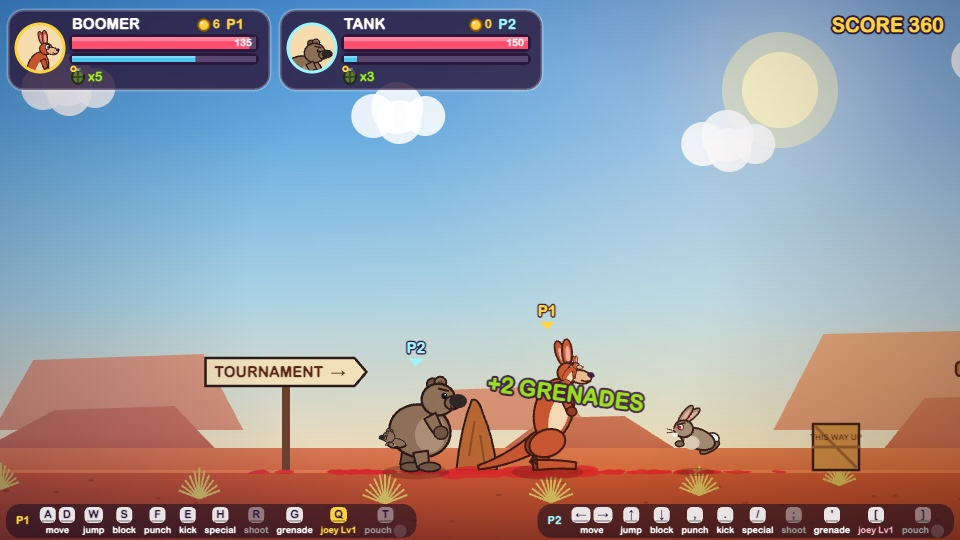
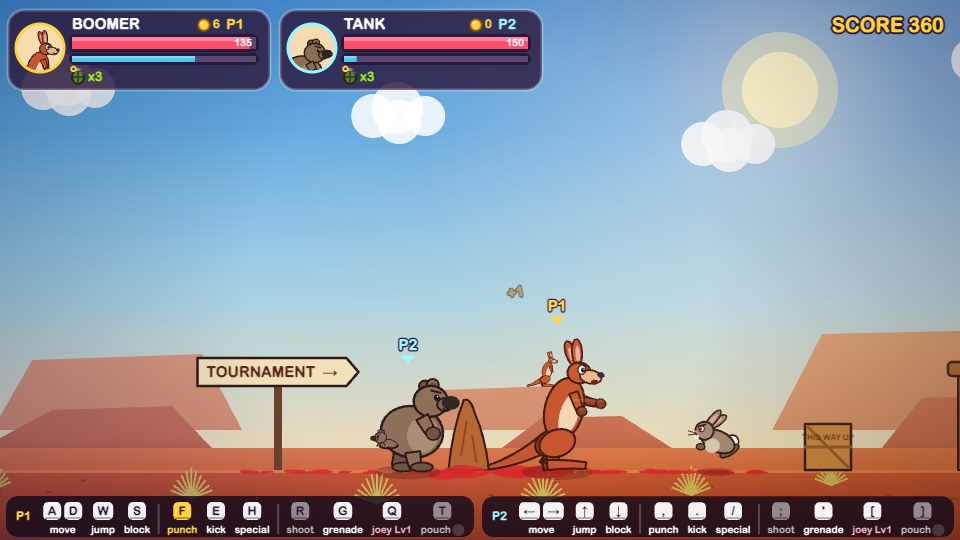
Every key's job clearly labelled at the bottom on a computer
The owner asked that on PC all controls are clearly labelled at the
bottom of the screen during play:
- The key strip is now a solid band along the bottom with bigger keys
  and what each one does written underneath, in groups: move, jump,
  block | punch, kick, special | shoot, grenade, joey, pouch | pause.
  Two players get a labelled strip each, side by side.
- It shrinks to fit if long key names are chosen in Settings.
- On a computer it can't be switched off: Pause > On-screen controls
  swaps it for the clickable buttons, and Settings says ALWAYS ON.
  Phones and tablets keep their switch.
- Tests for the labels, the fit in every layout and the always-on rule;
  README screenshots refreshed.

Changed region(s): [[0.0, 0.5333, 1.0, 1.0], [0.4062, 0.6222, 0.4688, 0.6815], [0.9688, 0.6519, 1.0, 0.7111]]

diff --git a/js/scenes/ui.js b/js/scenes/ui.js
@@ -109,12 +109,15 @@
       return String(str).replace(/\{(\w+)\}/g, (m, a) => UI.keyName(a) || m);
     },
 
-    // Key-hint strip along the bottom edge. Lights up the move the player is doing, and shows the joey's
-    // level (with a bar while it rests) and the pouch's saved item, so every control sits at the bottom.
+    // Key-hint strip along the bottom edge: every control during play, each key with what it does written
+    // underneath, in three groups (moving | fighting | gear) and pause. Lights up the move the player is doing,
+    // dims what can't be used right now (no ammo, no grenades, empty pouch, joey resting), and shows the
+    // joey's level (with a bar while it rests) and the pouch's saved item.
     //  opts.layout: 'wasd' | 'arrows' | 'pad' (solo, follows the keys in use) or 'p1' | 'p2' (duel)
     //  opts.x + opts.align ('left'|'right') to place it; centered otherwise
-    //  opts.compact: for two strips side by side: each label sits under its key, no pause key
+    //  opts.compact: for two strips side by side (each fits half the screen), no pause key
     //  opts.tag / opts.tagColor: e.g. 'P1' in the player's color
+    // Returns where it went: { x, w, k } (left edge, width on screen, scale used to make it fit).
     keyStrip(ctx, player, t, opts = {}) {
       // keyboard layouts follow the keys chosen in Settings (MG.Keys)
       const K = (p, a) => MG.Keys.label(p, a);
@@ -133,7 +136,7 @@
       const joeyLv = player.joey ? player.joey.level : player.joeyLevel || 0;
       const joeyRest = player.joey ? MG.U.clamp(player.joey.cool / 8, 0, 1) : player.joeyCool || 0;
       const SHOW = { attack: 'punch', big: 'kick', joey: joeyLv ? 'joey Lv' + joeyLv : 'joey' };
-      const POUCH_SLOT = compact ? 15 : 19; // room for the saved item's icon after "pouch"
+      const GROUP = { attack: 1, shoot: 1, pause: 1 }; // a divider before each: moving | fighting | gear | pause
       let items = LAYOUTS[opts.layout || MG.Input.lastDevice] || LAYOUTS.wasd;
       if (compact) items = items.filter(([, label]) => label !== 'pause');
       const kind = player.move ? player.move.kind : null;
@@ -145,72 +148,91 @@
         joey: !!player.joeyOut,
         block: player.state === 'block', jump: !player.onGround && player.state !== 'ko',
       };
-      const fs = compact ? 11 : 12, lfs = compact ? 9 : 12;
-      const font = `bold ${fs}px ${FONT}`, lfont = `bold ${lfs}px ${FONT}`;
+      const kfs = compact ? 12 : 15, lfs = compact ? 10 : 13;   // key letters, labels underneath
+      const capH = compact ? 18 : 24, gap = compact ? 9 : 14, sep = compact ? 8 : 12;
+      const slotW = compact ? 13 : 17;                          // room for the pouch's item after "pouch"
+      const kfont = `bold ${kfs}px ${FONT}`, lfont = `bold ${lfs}px ${FONT}`;
       const textW = (str, f) => { ctx.font = f; return ctx.measureText(str).width; };
-      const capW = (k) => Math.max(compact ? 16 : 20, textW(k, font) + (compact ? 8 : 10));
-      const capH = compact ? 16 : 20;
-      const gap = compact ? 8 : 10;
-      // each item: its key caps, then the label beside them (or under them when compact)
+      const capW = (k) => Math.max(capH, textW(k, kfont) + (compact ? 9 : 12));
       const sizes = items.map(([keys, label]) => {
         const kw = keys.reduce((a, k) => a + capW(k) + 3, 0) - 3;
-        const lw = textW(SHOW[label] || label, lfont) + (label === 'pouch' ? POUCH_SLOT : 0);
-        return { kw, w: compact ? Math.max(kw, lw) : kw + 5 + lw };
+        const lw = textW(SHOW[label] || label, lfont) + (label === 'pouch' ? slotW : 0);
+        return { kw, lw, w: Math.max(kw, lw) };
       });
-      const tagW = opts.tag ? textW(opts.tag, font) + 10 : 0;
-      const total = tagW + sizes.reduce((a, m) => a + m.w, 0) + gap * (items.length - 1);
-      const h = compact ? 34 : 28;
-      const y = MG.H - (compact ? 19 : 20);
-      let x = opts.x === undefined ? (MG.W - total) / 2 : opts.align === 'right' ? opts.x - total : opts.x;
-      ctx.fillStyle = 'rgba(20,10,30,0.55)';
-      ctx.beginPath();
-      ctx.roundRect(x - 10, y - h / 2, total + 20, h, 14);
-      ctx.fill();
+      const tagW = opts.tag ? textW(opts.tag, kfont) + 12 : 0;
+      const dividers = items.filter(([, label], i) => i > 0 && GROUP[label]).length;
+      const total = tagW + sizes.reduce((a, m) => a + m.w, 0) + gap * (items.length - 1) + sep * dividers;
+      // never wider than its room (a long key name chosen in Settings would otherwise run off the edge)
+      const room = compact ? MG.W / 2 - 28 : MG.W - 28;
+      const k = Math.min(1, room / total);
+      const H = MG.H, bandH = compact ? 44 : 52;
+      const capY = H - (compact ? 29 : 35), labY = H - (compact ? 10 : 12);
+      let x = opts.x === undefined ? (MG.W - total * k) / 2 : opts.align === 'right' ? opts.x - total * k : opts.x;
+      const where = { x: x - 10 * k, w: (total + 20) * k, k };
+      ctx.save();
+      if (!compact) {
+        // one player: a dark band along the whole bottom edge
+        ctx.fillStyle = 'rgba(16,8,26,0.8)';
+        ctx.fillRect(0, H - bandH, MG.W, bandH);
+        ctx.fillStyle = 'rgba(255,255,255,0.16)';
+        ctx.fillRect(0, H - bandH, MG.W, 2);
+      }
+      ctx.translate(x, H); ctx.scale(k, k); ctx.translate(-x, -H);
+      if (compact) {
+        ctx.fillStyle = 'rgba(16,8,26,0.8)';
+        ctx.beginPath(); ctx.roundRect(x - 10, H - bandH, total + 20, bandH - 3, 12); ctx.fill();
+      }
       if (opts.tag) {
-        UI.text(ctx, opts.tag, x, y, fs, opts.tagColor || '#ffd23f');
+        UI.text(ctx, opts.tag, x, H - bandH / 2 - 1, kfs, opts.tagColor || '#ffd23f');
         x += tagW;
       }
       items.forEach(([keys, label], i) => {
+        if (i > 0 && GROUP[label]) {
+          ctx.fillStyle = 'rgba(255,255,255,0.22)';
+          ctx.fillRect(x - gap / 2 + sep / 2 - 1, H - bandH + 8, 2, bandH - 14);
+          x += sep;
+        }
         const m = sizes[i];
         const ready = label === 'special' && player.canSpecial;
         const empty = (label === 'shoot' && !(player.ammo > 0)) || (label === 'grenade' && !(player.grenades > 0))
           || (label === 'pouch' && !player.pouch) || (label === 'joey' && player.joeyReady === false);
         const on = active[label];
         const glow = ready && Math.floor(t * 4) % 2 === 0;
-        const ky = compact ? y - 6 : y;
-        let kx = compact ? x + (m.w - m.kw) / 2 : x;
-        for (const k of keys) {
-          const w = capW(k);
-          ctx.fillStyle = on ? '#ffd23f' : glow ? '#00f5d4' : empty ? 'rgba(255,255,255,0.4)' : 'rgba(255,255,255,0.88)';
+        let kx = x + (m.w - m.kw) / 2;
+        for (const key of keys) {
+          const w = capW(key);
+          ctx.fillStyle = on ? '#ffd23f' : glow ? '#00f5d4' : empty ? 'rgba(255,255,255,0.5)' : 'rgba(255,255,255,0.95)';
           ctx.beginPath();
-          ctx.roundRect(kx, ky - capH / 2, w, capH, 5);
+          ctx.roundRect(kx, capY - capH / 2, w, capH, 5);
           ctx.fill();
-          ctx.fillStyle = 'rgba(0,0,0,0.25)';
-          ctx.fillRect(kx + 2, ky + capH / 2 - 3, w - 4, 2);
-          UI.text(ctx, k, kx + w / 2, ky, fs, '#2b193d', 'center');
+          ctx.fillStyle = 'rgba(0,0,0,0.28)';
+          ctx.fillRect(kx + 2, capY + capH / 2 - 3, w - 4, 2);
+          UI.text(ctx, key, kx + w / 2, capY + 0.5, kfs, '#2b193d', 'center');
           kx += w + 3;
         }
         // the joey resting: a pink bar fills along the bottom of its key
         if (label === 'joey' && player.joeyReady === false && joeyRest > 0) {
-          const w = capW(keys[0]), k0 = compact ? x + (m.w - m.kw) / 2 : x;
+          const w = capW(keys[0]), k0 = x + (m.w - m.kw) / 2;
           ctx.fillStyle = '#f6b3c4';
-          ctx.fillRect(k0 + 2, ky + capH / 2 - 3, (w - 4) * (1 - joeyRest), 2);
+          ctx.fillRect(k0 + 2, capY + capH / 2 - 3, (w - 4) * (1 - joeyRest), 2);
         }
-        const color = on ? '#ffd23f' : ready ? '#00f5d4' : empty ? '#999999' : label === 'joey' && player.joeyReady !== false && joeyLv ? '#f6b3c4' : '#ffffff';
+        const color = on ? '#ffd23f' : ready ? '#00f5d4' : empty ? '#b8b8b8' : label === 'joey' && player.joeyReady !== false && joeyLv ? '#f6b3c4' : '#ffffff';
         const text = SHOW[label] || label;
-        const slot = label === 'pouch' ? POUCH_SLOT : 0;
-        let lx;
-        if (compact) { lx = x + (m.w - slot) / 2; UI.text(ctx, text, lx, y + 10, lfs, color, 'center'); lx += textW(text, lfont) / 2; }
-        else { UI.text(ctx, text, kx + 2, y, fs, color); lx = kx + 2 + textW(text, font); }
+        const slot = label === 'pouch' ? slotW : 0;
+        const tw = textW(text, lfont);
+        const lx = x + (m.w - (tw + slot)) / 2;
+        UI.text(ctx, text, lx + tw / 2, labY, lfs, color, 'center');
         if (slot) {
           // the pouch's saved item (or an empty slot)
-          const cx = lx + slot / 2 + 1, cy = compact ? y + 10 : y, r = compact ? 5.5 : 7;
-          ctx.fillStyle = 'rgba(255,255,255,0.14)';
-          ctx.beginPath(); ctx.arc(cx, cy, r + 1, 0, Math.PI * 2); ctx.fill();
-          if (player.pouch) UI.pouchItem(ctx, player.pouch, cx, cy, r);
+          const cx = lx + tw + slot / 2 + 1, r = compact ? 5 : 6.5;
+          ctx.fillStyle = 'rgba(255,255,255,0.16)';
+          ctx.beginPath(); ctx.arc(cx, labY, r + 1, 0, Math.PI * 2); ctx.fill();
+          if (player.pouch) UI.pouchItem(ctx, player.pouch, cx, labY, r);
         }
         x += m.w + gap;
       });
+      ctx.restore();
+      return where;
     },
 
     // The pouch's saved item as a small icon (HUDs): a heart, or a power-up's colour and symbol.

diff --git a/tools/tests/test_campaign.js b/tools/tests/test_campaign.js
@@ -167,6 +167,53 @@ sc.showStrip = false;
 panelT = texts(function (c) { MG.CampaignHUD.draw(c, sc.hudModel()); });
 check(!sc.hudModel().players[0].below && panelT.some(function (w) { return /^JOEY Lv/.test(w); }) && panelT.indexOf('POUCH') >= 0, '...but keeps them when the on-screen controls are off');
 sc.showStrip = true;
+
+// ---- on a computer every key's job is labelled at the bottom during play (the owner, 15 Nov 2026)
+function measured() {
+  var labels = [];
+  var ctx = new Proxy({}, {
+    get: function (t, k) {
+      if (k in t) return t[k];
+      if (k === 'measureText') return function (str) { var m = /(\d+)px/.exec(t.font || '') || [0, 12]; return { width: String(str).length * +m[1] * 0.62 }; };
+      if (k === 'createLinearGradient' || k === 'createRadialGradient') return function () { return { addColorStop: noop }; };
+      if (k === 'fillText') return function (str) { labels.push(String(str)); };
+      return noop;
+    },
+    set: function (t, k, v) { t[k] = v; return true; },
+  });
+  return { ctx: ctx, labels: labels };
+}
+var allJobs = ['move', 'jump', 'block', 'punch', 'kick', 'special', 'shoot', 'grenade', 'joey Lv' + sc.player.joey.level, 'pouch', 'pause'];
+var stripsOk = ['wasd', 'arrows', 'pad'].every(function (lay) {
+  var r = measured(), where = MG.UI.keyStrip(r.ctx, sc.player, 1, { layout: lay });
+  return where.x >= 0 && where.x + where.w <= 960 && allJobs.every(function (j) { return r.labels.indexOf(j) >= 0; });
+});
+check(stripsOk, 'the key strip labels every job (move, jump, block, punch, kick, special, shoot, grenade, joey, pouch, pause) and fits the screen, for keys, arrow keys and a gamepad');
+var r1 = measured(), r2 = measured();
+var left = MG.UI.keyStrip(r1.ctx, sc.player, 1, { layout: 'p1', compact: true, x: 16, align: 'left', tag: 'P1' });
+var right = MG.UI.keyStrip(r2.ctx, sc.player, 1, { layout: 'p2', compact: true, x: 944, align: 'right', tag: 'P2' });
+check(left.x >= 0 && left.x + left.w < right.x && right.x + right.w <= 960 && allJobs.slice(0, 10).every(function (j) { return r1.labels.indexOf(j) >= 0 && r2.labels.indexOf(j) >= 0; }),
+  'two players: two labelled strips side by side, not overlapping');
+['up', 'attack', 'big', 'special', 'shoot', 'grenade'].forEach(function (a, i) { MG.Keys.set('P1', a, ['NumpadMultiply', 'NumpadSubtract', 'NumpadDecimal', 'NumpadDivide', 'NumpadEnter', 'NumpadAdd'][i]); });
+var rl = measured(), long = MG.UI.keyStrip(rl.ctx, sc.player, 1, { layout: 'wasd' });
+MG.Keys.reset();
+check(long.k < 1 && long.x >= 0 && long.x + long.w <= 960.5, 'long key names chosen in Settings: the strip shrinks to fit instead of running off the screen');
+// it can't be switched off on a computer (phones and tablets keep their switch)
+var wasTouch = MG.Touch.isTouchDevice;
+MG.Touch.isTouchDevice = false; MG.Save.set('keyStrip', false);
+var pcScene = fresh();
+check(MG.stripOn() && pcScene.showStrip && pcScene.hudModel().strips.length === 1, 'on a computer the key hints are always on (even if they were switched off before)');
+MG.cycleOnscreen(pcScene); var l1 = MG.onscreenLabel(pcScene), strips1 = pcScene.hudModel().strips.length;
+MG.cycleOnscreen(pcScene); var l2 = MG.onscreenLabel(pcScene), strips2 = pcScene.hudModel().strips.length;
+check(/BUTTONS/.test(l1) && /KEY HINTS/.test(l2) && strips2 === 1 && !MG.Touch.enabled, 'Pause > On-screen controls switches between key hints and buttons, never to nothing');
+var setScene = new MG.SettingsScene({});
+var hintRow = setScene.items.find(function (it) { return /^Key hints/.test(typeof it.label === 'function' ? it.label() : it.label); });
+hintRow.change(1);
+check(/ALWAYS ON/.test(hintRow.label()) && MG.stripOn(), 'Settings: "Key hints at the bottom: ALWAYS ON" on a computer');
+MG.Touch.isTouchDevice = true;
+check(!MG.stripOn(), '...while a phone or tablet can still switch them off');
+MG.Touch.isTouchDevice = wasTouch; MG.Touch.enabled = false; MG.Save.set('keyStrip', true);
+sc = fresh();
 MG.Touch.enabled = false;
 
 // 2 players on one keyboard: separate controls, shared screen, tougher pests, revive after 5 s

diff --git a/js/core/touch.js b/js/core/touch.js
@@ -250,11 +250,15 @@
     },
   });
 
+  // Are the key hints at the bottom shown? Always on a computer (the owner, 15 Nov 2026: every key's job
+  // must be clearly labelled during play); phones and tablets can switch them off in Settings.
+  MG.stripOn = () => !T.isTouchDevice || MG.Save.get('keyStrip', true) !== false;
+
   // Pause-menu option. Phones/tablets: touch buttons ON/OFF (this visit only, never stuck off).
-  // Computers: key hints -> touch buttons -> nothing.
+  // Computers: key hints <-> on-screen buttons (in a row along the bottom); never nothing.
   MG.onscreenLabel = (scene) => {
     if (T.isTouchDevice) return 'Touch buttons: ' + (T.enabled ? 'ON' : 'OFF');
-    return 'On-screen controls: ' + (T.enabled ? 'BUTTONS (click or tap)' : scene.showStrip ? 'KEY HINTS' : 'OFF');
+    return 'On-screen controls: ' + (T.enabled ? 'BUTTONS (click or tap)' : 'KEY HINTS');
   };
   MG.cycleOnscreen = (scene) => {
     if (T.isTouchDevice) {
@@ -262,16 +266,8 @@
       T.userOff = !T.enabled;
       return;
     }
-    if (T.enabled) {
-      T.enabled = false;
-      T.userOff = true;
-      scene.showStrip = false;
-    } else if (!scene.showStrip) {
-      scene.showStrip = true;
-    } else {
-      T.enabled = true;
-      T.userOff = false;
-    }
-    MG.Save.set('keyStrip', scene.showStrip);
+    T.enabled = !T.enabled;
+    T.userOff = !T.enabled;
+    scene.showStrip = true;
   };
 })();

diff --git a/js/scenes/settings.js b/js/scenes/settings.js
@@ -28,7 +28,9 @@
         { label: () => 'Touch buttons: ' + (S.bigTouch ? 'BIG' : 'NORMAL'), change: () => MG.setSetting('bigTouch', !S.bigTouch) },
         { label: () => 'High contrast: ' + (S.contrast ? 'ON' : 'OFF'), change: () => MG.setSetting('contrast', !S.contrast) },
         { label: () => 'Light and haze: ' + (S.lighting ? 'ON' : 'OFF (faster on old phones)'), change: () => MG.setSetting('lighting', !S.lighting) },
-        { label: () => 'Key hints at the bottom: ' + (MG.Save.get('keyStrip', true) ? 'ON' : 'OFF'), change: () => MG.Save.set('keyStrip', !MG.Save.get('keyStrip', true)) },
+        // the key hints can be switched off only on phones and tablets (they have touch buttons instead)
+        { label: () => 'Key hints at the bottom: ' + (!MG.Touch.isTouchDevice ? 'ALWAYS ON' : MG.Save.get('keyStrip', true) ? 'ON' : 'OFF'),
+          change: () => { if (MG.Touch.isTouchDevice) MG.Save.set('keyStrip', !MG.Save.get('keyStrip', true)); } },
         { label: 'Change keys: player 1', act: () => { this.page = 'keys'; this.player = 'P1'; this.keySel = 0; } },
         { label: 'Change keys: player 2', act: () => { this.page = 'keys'; this.player = 'P2'; this.keySel = 0; } },
         { label: 'Back', act: () => this.back() },

diff --git a/js/scenes/campaign.js b/js/scenes/campaign.js
@@ -31,7 +31,7 @@
       this.stateT = 0;
       this.menu = null;
       this.showControls = false;
-      this.showStrip = MG.Save.get('keyStrip', true);
+      this.showStrip = MG.stripOn(); // always on a computer
       this.uid = 0;
       this.syncT = 0;
       this.gid = Math.random().toString(36).slice(2, 10); // this game, for Wi-Fi friends' coin totals

diff --git a/js/scenes/remote_duel.js b/js/scenes/remote_duel.js
@@ -13,7 +13,7 @@
       this.input = {};
       this.menu = null;
       this.showControls = false;
-      this.showStrip = MG.Save.get('keyStrip', true);
+      this.showStrip = MG.stripOn(); // always on a computer
       this.ended = null;
       this.players = {};
       this.proj = [];

diff --git a/js/scenes/remote.js b/js/scenes/remote.js
@@ -14,7 +14,7 @@
       this.input = {};
       this.menu = null;
       this.showControls = false;
-      this.showStrip = MG.Save.get('keyStrip', true);
+      this.showStrip = MG.stripOn(); // always on a computer
       this.ended = null;
       this.setLevel(opts.level || 0);
     }

diff --git a/js/scenes/duel.js b/js/scenes/duel.js
@@ -137,7 +137,7 @@
       this.round = 0;
       this.t = 0;
       this.syncT = 0;
-      this.showStrip = MG.Save.get('keyStrip', true);
+      this.showStrip = MG.stripOn(); // always on a computer
       this.startRound();
     }
 

diff --git a/CLAUDE.md b/CLAUDE.md
@@ -98,6 +98,7 @@ Copy and adapt Sloth Slap's `tools/share_server.py` and `share-on-network.comman
 - Punch and kick: every character's `basic.style` is `'punch'` and `big.style` a kick (`'kick'`, Zip's `'spinKick'`, Benny's `'doubleKick'`). Specials can still pose with the old styles (bites, chomps, slaps), so keep their art. The critter rig's kick thrusts the front leg out (`kickBig`) and its punches alternate paws with `jabArm` (from `ja`). Players see "punch" and "kick"; the action names stay `attack` and `big` (saved keys, Wi-Fi presses).
 - Punch and kick feel (`doHits` in `fighter.js`): the blow is `'punch'`, `'hook'` (the combo's third, `h === this.moves.hook`) or `'kick'` from `this.move.kind`; specials (move kind `special`) get none of this. Effects `fx.impact(x, y, kind, dir, heavy)` and `fx.dust(x, y, dir, n)` (puffs that grow) are in `FX_METHODS` for Wi-Fi friends; `fx.hitText(x, y, big, kind)` picks punch, hook or kick words; `MG.Audio.jab(heavy)` snaps (random pitch) and `MG.Audio.kick()` thuds. Pauses: punch 0.035 s, hook 0.055 s, kick 0.1 s.
 - Practice corner: `CampaignScene` makes `this.practice` only with `opts.practice` (the world map, the shop's PLAY and Restart pass it) and `MG.Practice.wanted` (map 1, not Wi-Fi, not cleared, not saved 'practiced'), so tests that build map 1 directly don't get it. The dummy joins `targets()` while practising (`noScore`, so no points); pests get `waiting` (stand still, no moves) until it's done or the lead player passes `SKIP_X`. The HUD's coach board comes from `hudModel().practice` (`keyNames` per local player; `UI.keyName` gives touch button names when the touch buttons are on).
+- Key strip (`UI.keyStrip`): each key cap with its job underneath, groups split by dividers (`GROUP`), a full-width band for one player and a box per strip for two (`compact`); it returns `{ x, w, k }` and scales down (`k`) to fit its room. `MG.stripOn()` is always true on a computer (not `T.isTouchDevice`), so the scenes' `showStrip` starts on; `MG.cycleOnscreen` on a computer swaps key hints and buttons and never turns both off.
 - Controls at the bottom: `UI.keyStrip` shows the joey's level (pink bar while it rests) and the pouch's item; HUD models set `below` on a player whose strip or touch buttons show them, and the panels then leave them out. `MG.Touch.computer()` (any fine pointer) switches the touch buttons to `rowLayout` (one row along the bottom, `ROW`); mouse presses count while the buttons show, and `tapped` makes a quick click or tap count even if it ends before the next frame.
 - Keys: never hard-code keyboard letters in hints; use `MG.Keys.label(player, action)` (the key strip and Controls page do). Map tips write keys as `{action}` (e.g. `Press {grenade}`), filled by `UI.fillKeys` with `UI.keyName` (Settings keys, the gamepad's buttons, or the solo arrow set); a test checks no tip names a fixed key. New scripts go into both `index.html` and `tools/editor.html` (a test checks).
 - Movement: `Fighter.squash()` (air speed, `landT`/`landV` set in `physics`, `hurtAt` set in `takeHit`) goes out as `sq` with `vy` (tens of px/s) in `renderState`; `drawState` scales around the feet, works out `ears`/`tailLag` for the rigs (kangaroo ears swing at their base; critter ears by `EAR_FLEX` per ear type) and draws `MG.Art.swoosh` (style → kind in `MG.Art.SMEAR`; a new attack style needs an entry, or is a shove or hug, a test checks) and `MG.Art.speedLines`.
@@ -172,7 +173,7 @@ Script order lives in `index.html`: plain `<script>` tags, no modules. Everythin
 ## Testing
 
 - **Automated:** `tools/run-tests.sh` (a few minutes: bots play all 27 maps alone and as 3 Wi-Fi players). It syntax-checks every game file, runs `tools/tests/test_*.js` in macOS's built-in JavaScriptCore with a fake browser (`harness.js`), and checks the share server's safety rules (`test_server.py`). Add checks with `check(ok, 'what')` and add new test names to the `for t in ...` list.
-  Tests: `boot` (title screen, settings, Wi-Fi rules), `boomer` (every move, the grenade, the gatling, power-ups, each pest; how punches, hooks and kicks look and sound, Wi-Fi replay, keys in hints), `campaign` (map, gates, checkpoints, Big Buck, win/lose, blood, pause, touch, the computer's row of buttons and mouse clicks, the key strip's punch/kick/joey/pouch and the shorter panel, 2 players, the practice corner: every step, waiting pests, skipping, the coach board's keys), `solo` (a bot plays the map 3 times and must finish most runs), `roster` (all 12 characters: every attack, big attack, special and trait, every pose drawn; everyone punches and kicks, in the data and the art), `settings` (changing keys and the swap rule, the settings pages, difficulty in the adventure but not duels, volumes, gore, touch size, contrast), `looks` (the title screen's cast, joeys, Mexican wave, secret characters, logo drop-in and quokka; a light for every world, its layers, sunsets, maps and duels; Light and haze OFF, high contrast, the Settings switch, the slow-device switch-off; squash and stretch in a real jump, landing and hit, ears and tails following through, critters breathing, every attack style's smear, kick arcs above the ground, speed lines; pests squashing in a real hop and landing, wobbling when hit, rabbit ears, cat tails and walking legs, their Wi-Fi field and trimmed updates, a friend's view; ground detail in every world with no broken numbers, batched, scrolling, in maps and duels), `editor` (its script list matches index.html, every tool, the checks, export round-trips every map), `twist` (the "meanwhile" cutscenes: their order, every frame drawn, finishing then turning a page; friend panels; the 15 new maps and their branches, the Isle of Man secret, the Hypnotic Grin, natives running off, every reptile, every new boss move, the Grand Grinner's phases and echoes, CPU champions, the betrayal and ending stories, unlocking and playing Ghost and Cousin Cuscus, Wi-Fi poses and champions), `worlds` (the 11 maps check out and draw, progress and unlocking, the world map and story panels, emus, cassowary, water and swimming, crocs, quokka helpers, tree-kangaroo, quoll, cane toads, every boss move, clues, Wi-Fi world map and animals, the lobby's open maps), `shop` (wallets and buying rules, the sections, selling back, the 7 newer items, every weapon hits, refills, borrowed weapons, levels, piercing, drop bears, magpies, armor, gear in maps and at checkpoints, coins to the right player, the shop screen with keys and taps, fair duels, Wi-Fi gear and coins, Shop Together), `joey` (who carries their joey where, nip, fetch, Joey Rush, rescue once per map, growing, duels, the pouch rules, the controls everywhere, every joey drawn, Wi-Fi presses and snapshots), `duel` (CPU vs CPU with every character, fair fights, supply drops, rounds, 2 players, the select flow, a Wi-Fi battle with a guest view), `topend` (Darwin Harbour: where it opens, the walk order, its story, Old Snapjaw's moves; the map's SHOP button and coming back to the same stop; the Shop line and the shop's two ways out after a map or a knock-out), `coop` (3 Wi-Fi players through every map with every snapshot drawn by a guest view, update sizes, lobby, drop-in, leave, reconnect, the friend's side, the WI-FI menu), and `test_server.py` (the share server's file and address rules, plus a live run of the relay: join code, lockout, tokens, size cap, one host, rejoin as the same player, full at 4).
+  Tests: `boot` (title screen, settings, Wi-Fi rules), `boomer` (every move, the grenade, the gatling, power-ups, each pest; how punches, hooks and kicks look and sound, Wi-Fi replay, keys in hints), `campaign` (map, gates, checkpoints, Big Buck, win/lose, blood, pause, touch, the computer's row of buttons and mouse clicks, the key strip's punch/kick/joey/pouch and the shorter panel, 2 players, the practice corner: every step, waiting pests, skipping, the coach board's keys; the key strip labels every job and fits in every layout, even with long key names, and stays on for computers), `solo` (a bot plays the map 3 times and must finish most runs), `roster` (all 12 characters: every attack, big attack, special and trait, every pose drawn; everyone punches and kicks, in the data and the art), `settings` (changing keys and the swap rule, the settings pages, difficulty in the adventure but not duels, volumes, gore, touch size, contrast), `looks` (the title screen's cast, joeys, Mexican wave, secret characters, logo drop-in and quokka; a light for every world, its layers, sunsets, maps and duels; Light and haze OFF, high contrast, the Settings switch, the slow-device switch-off; squash and stretch in a real jump, landing and hit, ears and tails following through, critters breathing, every attack style's smear, kick arcs above the ground, speed lines; pests squashing in a real hop and landing, wobbling when hit, rabbit ears, cat tails and walking legs, their Wi-Fi field and trimmed updates, a friend's view; ground detail in every world with no broken numbers, batched, scrolling, in maps and duels), `editor` (its script list matches index.html, every tool, the checks, export round-trips every map), `twist` (the "meanwhile" cutscenes: their order, every frame drawn, finishing then turning a page; friend panels; the 15 new maps and their branches, the Isle of Man secret, the Hypnotic Grin, natives running off, every reptile, every new boss move, the Grand Grinner's phases and echoes, CPU champions, the betrayal and ending stories, unlocking and playing Ghost and Cousin Cuscus, Wi-Fi poses and champions), `worlds` (the 11 maps check out and draw, progress and unlocking, the world map and story panels, emus, cassowary, water and swimming, crocs, quokka helpers, tree-kangaroo, quoll, cane toads, every boss move, clues, Wi-Fi world map and animals, the lobby's open maps), `shop` (wallets and buying rules, the sections, selling back, the 7 newer items, every weapon hits, refills, borrowed weapons, levels, piercing, drop bears, magpies, armor, gear in maps and at checkpoints, coins to the right player, the shop screen with keys and taps, fair duels, Wi-Fi gear and coins, Shop Together), `joey` (who carries their joey where, nip, fetch, Joey Rush, rescue once per map, growing, duels, the pouch rules, the controls everywhere, every joey drawn, Wi-Fi presses and snapshots), `duel` (CPU vs CPU with every character, fair fights, supply drops, rounds, 2 players, the select flow, a Wi-Fi battle with a guest view), `topend` (Darwin Harbour: where it opens, the walk order, its story, Old Snapjaw's moves; the map's SHOP button and coming back to the same stop; the Shop line and the shop's two ways out after a map or a knock-out), `coop` (3 Wi-Fi players through every map with every snapshot drawn by a guest view, update sizes, lobby, drop-in, leave, reconnect, the friend's side, the WI-FI menu), and `test_server.py` (the share server's file and address rules, plus a live run of the relay: join code, lockout, tokens, size cap, one host, rejoin as the same player, full at 4).
 - **Live Wi-Fi test in the app's browser:** start `python3 tools/share_server.py --local --port 8790 --hours 1` in a Terminal tab (this computer only, so it never clashes with the family's port 8020), open `http://localhost:8790` (host) and `http://127.0.0.1:8790`, `http://mayhem.localhost:8790` (friends: separate addresses keep their saves apart), call `MG.Engine.startHostTicker()` in each tab (hidden tabs don't animate), and close the Terminal tab afterwards.
 - **Visual:** `.claude/launch.json` has `marsupial-mayhem` (`share_server.py --local` on port 8790, this computer only). The app's preview tool reads `launch.json` from the folder the session **started** in (moving a session to this folder later didn't change that), so start Claude sessions in this folder. A session started in another game's folder must never add this game to that folder's `launch.json`. Without the preview, headless Chrome can screenshot the double-clicked page: load the game scripts in a scratch page, drive `MG.Engine.frame()` yourself, then keep redrawing the frozen frame (a window resize clears the canvas).
 - A hidden preview pane doesn't animate: drive scenes with `MG.Engine.frame(t)` or the host ticker.

diff --git a/docs/DECISIONS.md b/docs/DECISIONS.md
@@ -108,6 +108,7 @@
 - **Punches and kicks feel different:** a punch lands with a quick white star, streaks the way the target flies, words like POW! and BIFF!, a crisp snap (a little higher or lower each time) and the shortest pause. The combo's third punch (the hook) gets a bigger star, its own words and a fuller smack. A kick lands with a golden burst and a shock arc, dust from the planted foot, words like THWACK! and BOOT!, a deep thud and a slightly longer pause (0.1 s). Specials keep their own look. Wi-Fi friends see and hear all of it.
 - **Hints use the player's own keys:** the first map's tip said "Press G", which was wrong for anyone who changed the key or used a gamepad. Tips now name keys as `{grenade}` and show the key chosen in Settings, LT on a gamepad, or the solo arrow-key set.
 - **A practice corner for new players:** on the first map, a straw-stuffed training dummy stands just past the TOURNAMENT sign and a coach board walks through punch (3 times), kick, jump, block and the grenade, showing each move's key (the button on a touch screen, both players' keys with two on one keyboard). The first rabbits wait until it's done; walking on past the dummy skips it. It shows only when the map is started from the world map (or restarted), never on Wi-Fi, and stops once it's been done or skipped, or the first map has been cleared. Punching the dummy scores nothing. Afterwards the dummy stays as scenery.
+- **Every key's job clearly labelled on a computer (the owner, 15 Nov 2026):** the key strip is now a solid band along the bottom with bigger keys and what each one does written underneath, in groups (move, jump, block | punch, kick, special | shoot, grenade, joey, pouch | pause). It shrinks to fit if long key names are chosen in Settings. On a computer it can't be switched off: Pause > On-screen controls swaps between the key hints and the clickable buttons, and Settings shows "Key hints at the bottom: ALWAYS ON". Phones and tablets keep their switch (they have touch buttons).
 - **All the controls at the bottom:** the joey's level and the pouch's saved item moved from the top-left panel into the key strip at the bottom. The panel is shorter whenever the strip or the touch buttons show them; with the on-screen controls off, they stay in the panel. On a computer (anything with a mouse or trackpad), the touch buttons sit in one row along the bottom, moving on the left and PUNCH at the right-hand end, and a mouse click presses them. Phones and tablets keep the thumb layout.
 
 ## Open questions for the owner

diff --git a/README.md b/README.md
@@ -112,9 +112,9 @@ Good to know:
 | Pouch (use the saved item) | T | ] | RT |
 | Pause | Esc / P | Esc / P | Start |
 
-Every marsupial punches and kicks. Playing alone? Arrows with J (punch), K (kick), L (special), ; (shoot), ' (grenade), [ (joey) and ] (pouch) work too. All the controls sit along the bottom of the screen: the key hints (with your joey's level and the pouch's saved item), or on-screen buttons. On phones and tablets, touch buttons appear during play (BOOM is the grenade); on a computer, Pause > On-screen controls puts every button in one row along the bottom, and you can click them with the mouse. The title screen's CONTROLS button and the pause menu show this table too.
+Every marsupial punches and kicks. Playing alone? Arrows with J (punch), K (kick), L (special), ; (shoot), ' (grenade), [ (joey) and ] (pouch) work too. All the controls sit along the bottom of the screen: every key with what it does written underneath (plus your joey's level and the pouch's saved item). On a computer they're always there; Pause > On-screen controls swaps them for clickable buttons. On phones and tablets, touch buttons appear during play (BOOM is the grenade); on a computer the buttons sit in one row along the bottom and work with the mouse. The title screen's CONTROLS button and the pause menu show this table too.
 
-**Settings** (on the title screen): music and sound-effects volume, blood (on, gore, or confetti), difficulty for the adventure (easy, normal or hard; duels always stay fair), bigger touch buttons, high contrast, light and haze (switch it off if an older phone feels slow), the key hints, and **changing the keys** for player 1 and player 2 (the key hints and the Controls page follow your keys).
+**Settings** (on the title screen): music and sound-effects volume, blood (on, gore, or confetti), difficulty for the adventure (easy, normal or hard; duels always stay fair), bigger touch buttons, high contrast, light and haze (switch it off if an older phone feels slow), the key hints (always on with a keyboard; phones and tablets can hide them), and **changing the keys** for player 1 and player 2 (the key hints and the Controls page follow your keys).
 
 **New to the game?** The first map starts with a practice corner: a training dummy and a coach board that walk you through punch, kick, jump, block and the grenade (walk on past the dummy to skip it).
 
